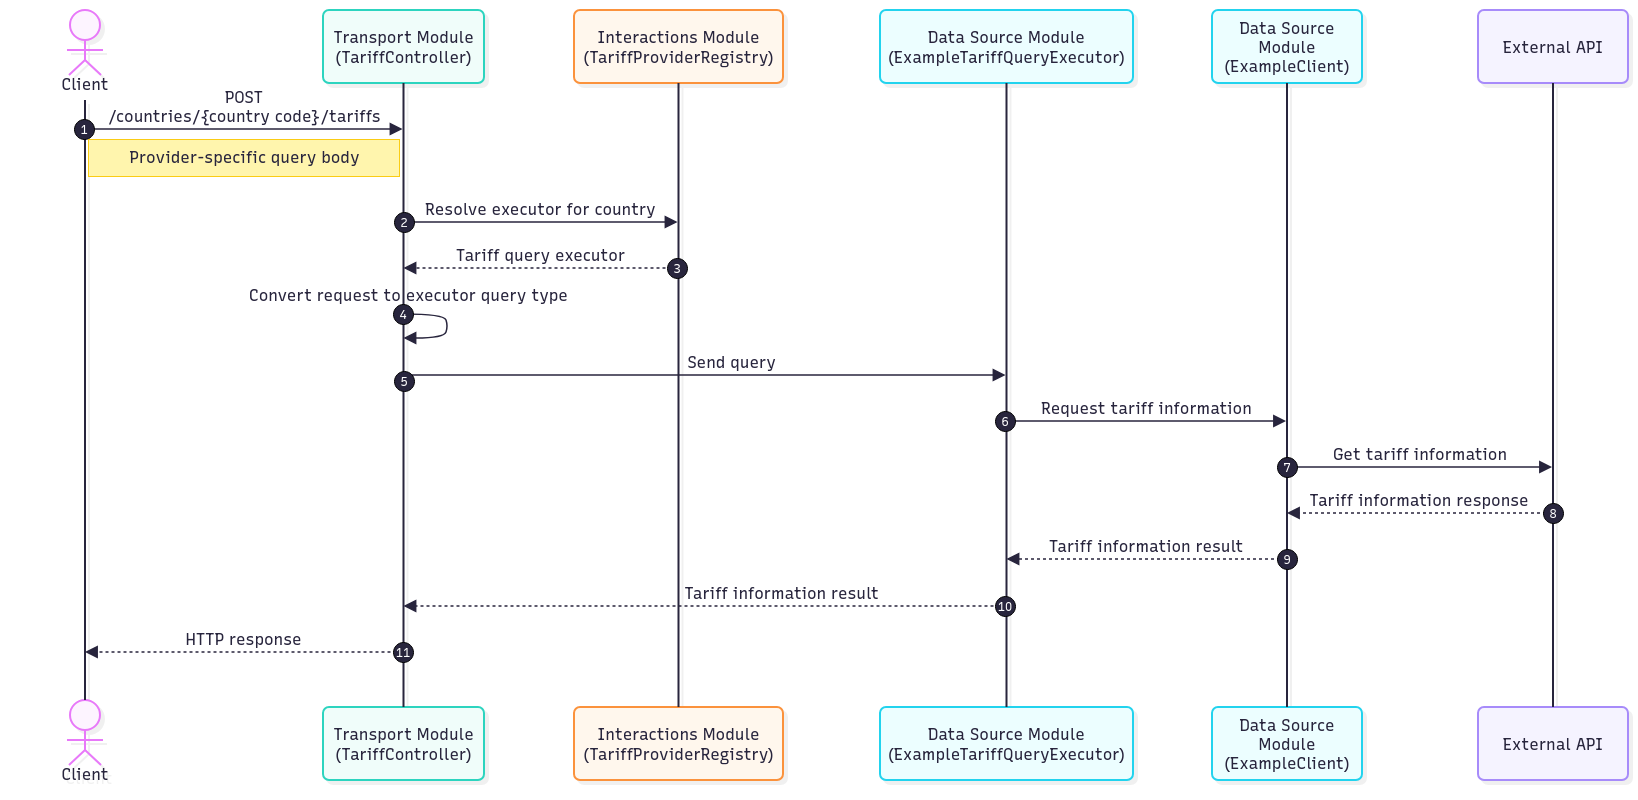
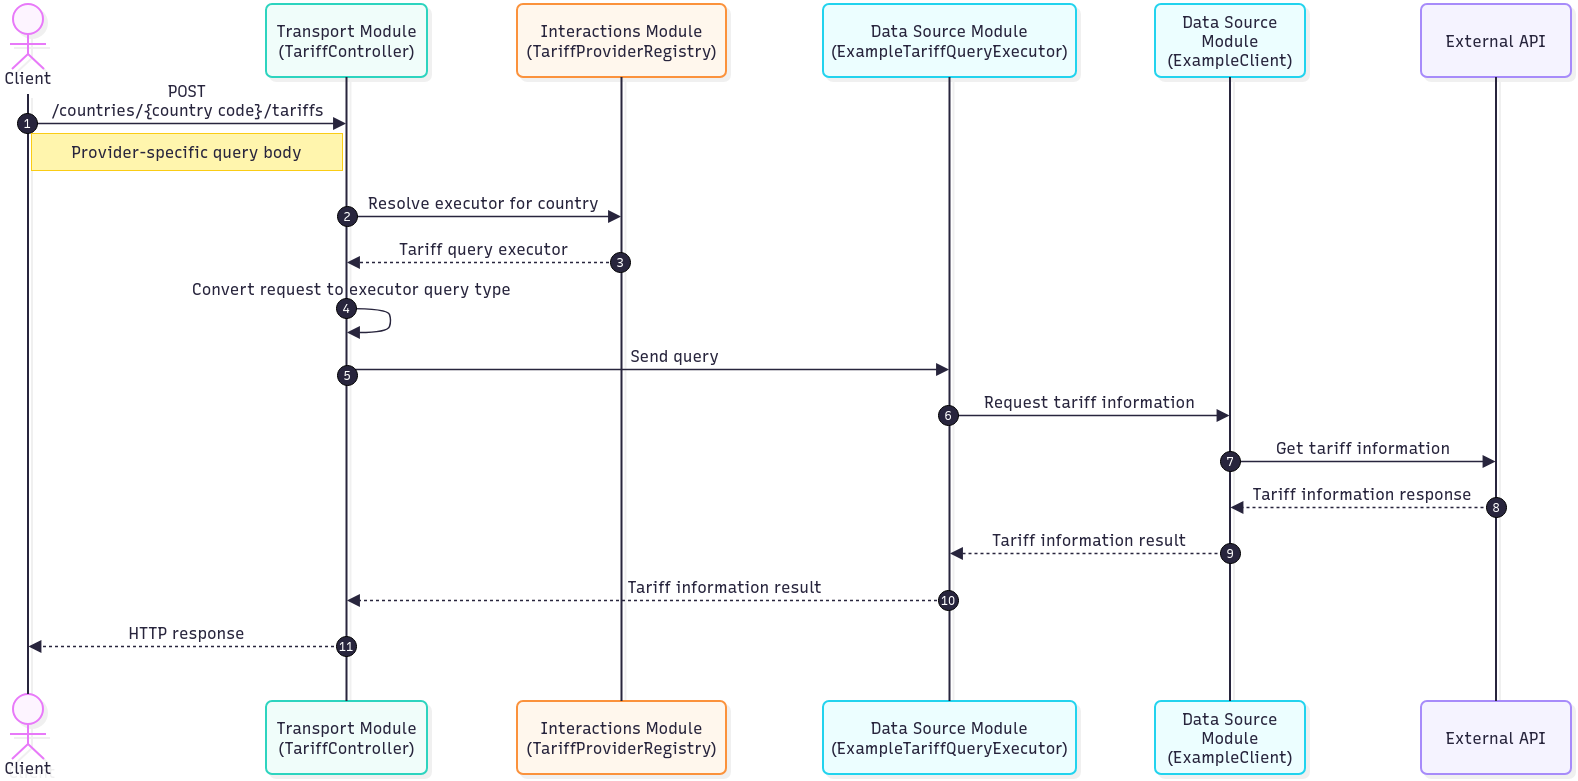
feat(esios-datasource): GH-7 apply review suggestions and update add-datasource.md in docs

diff --git a/data-sources/data-source-es-esios/src/main/java/energy/eddie/implicitflexibility/datasource/es/esios/models/Indicator.java b/data-sources/data-source-es-esios/src/main/java/energy/eddie/implicitflexibility/datasource/es/esios/models/Indicator.java
@@ -5,80 +5,18 @@ import com.fasterxml.jackson.annotation.JsonProperty;
 import java.time.OffsetDateTime;
 import java.util.List;
 
-public class Indicator extends IndicatorItem {
-
-    private final Boolean composited;
-    @JsonProperty("step_type")
-    private final String stepType;
-    private final Boolean disaggregated;
-    private final List<IndicatorBase> geos;
-    private final List<IndicatorBase> magnitud;
-    private final List<IndicatorBase> tiempo;
-    @JsonProperty("values_updated_at")
-    private final OffsetDateTime valuesUpdatedAt;
-    @JsonProperty("values_sum")
-    private final Integer valuesSum;
-    private final List<IndicatorValue> values;
-
-    public Indicator(
-            String name,
-            long id,
-            String shortName,
-            Boolean composited,
-            String stepType,
-            Boolean disaggregated,
-            List<IndicatorBase> geos,
-            List<IndicatorBase> magnitud,
-            List<IndicatorBase> tiempo,
-            OffsetDateTime valuesUpdatedAt,
-            Integer valuesSum,
-            List<IndicatorValue> values
-    ) {
-        super(name, id, shortName);
-        this.composited = composited;
-        this.stepType = stepType;
-        this.disaggregated = disaggregated;
-        this.geos = geos;
-        this.magnitud = magnitud;
-        this.tiempo = tiempo;
-        this.valuesUpdatedAt = valuesUpdatedAt;
-        this.valuesSum = valuesSum;
-        this.values = values;
-    }
-
-    public Boolean getComposited() {
-        return composited;
-    }
-
-    public String getStepType() {
-        return stepType;
-    }
-
-    public Boolean isDisaggregated() {
-        return disaggregated;
-    }
-
-    public List<IndicatorBase> getGeos() {
-        return geos;
-    }
-
-    public List<IndicatorBase> getMagnitud() {
-        return magnitud;
-    }
-
-    public List<IndicatorBase> getTiempo() {
-        return tiempo;
-    }
-
-    public OffsetDateTime getValuesUpdatedAt() {
-        return valuesUpdatedAt;
-    }
-
-    public Integer getValuesSum() {
-        return valuesSum;
-    }
-
-    public List<IndicatorValue> getValues() {
-        return values;
-    }
+public record Indicator(
+        String name,
+        long id,
+        @JsonProperty("short_name") String shortName,
+        Boolean composited,
+        @JsonProperty("step_type") String stepType,
+        Boolean disaggregated,
+        List<IndicatorItem> geos,
+        List<IndicatorItem> magnitud,
+        List<IndicatorItem> tiempo,
+        @JsonProperty("values_updated_at") OffsetDateTime valuesUpdatedAt,
+        Integer valuesSum,
+        List<IndicatorValue> values
+) implements IndicatorBase {
 }

diff --git a/data-sources/data-source-es-esios/src/main/java/energy/eddie/implicitflexibility/datasource/es/esios/models/IndicatorValue.java b/data-sources/data-source-es-esios/src/main/java/energy/eddie/implicitflexibility/datasource/es/esios/models/IndicatorValue.java
@@ -1,50 +1,18 @@
 package energy.eddie.implicitflexibility.datasource.es.esios.models;
 
+import com.fasterxml.jackson.annotation.JsonAlias;
 import com.fasterxml.jackson.annotation.JsonProperty;
 
 import java.math.BigDecimal;
 import java.time.Instant;
 import java.time.OffsetDateTime;
 
-public class IndicatorValue extends IndicatorBase {
-    private final BigDecimal value;
-
-    private final OffsetDateTime datetime;
-
-    @JsonProperty("datetime_utc")
-    private final Instant datetimeUtc;
-
-    @JsonProperty("tz_time")
-    private final Instant tzTime;
-
-    public IndicatorValue(
-            @JsonProperty("geo_name") String name,
-            @JsonProperty("geo_id") long id,
-            BigDecimal value,
-            OffsetDateTime datetime,
-            Instant datetimeUtc,
-            Instant tzTime
-    ) {
-        super(name, id);
-        this.value = value;
-        this.datetime = datetime;
-        this.datetimeUtc = datetimeUtc;
-        this.tzTime = tzTime;
-    }
-
-    public BigDecimal getValue() {
-        return value;
-    }
-
-    public OffsetDateTime getDatetime() {
-        return datetime;
-    }
-
-    public Instant getDatetimeUtc() {
-        return datetimeUtc;
-    }
-
-    public Instant getTzTime() {
-        return tzTime;
-    }
+public record IndicatorValue(
+        @JsonAlias("geo_name") String name,
+        @JsonAlias("geo_id") long id,
+        BigDecimal value,
+        OffsetDateTime datetime,
+        @JsonProperty("datetime_utc") Instant datetimeUtc,
+        @JsonProperty("tz_time") Instant tzTime
+) implements IndicatorBase {
 }

diff --git a/data-sources/data-source-es-esios/src/test/java/energy/eddie/implicitflexibility/datasource/es/esios/EsiosClientTest.java b/data-sources/data-source-es-esios/src/test/java/energy/eddie/implicitflexibility/datasource/es/esios/EsiosClientTest.java
@@ -68,10 +68,10 @@ class EsiosClientTest {
 
         // Then
         assertNotNull(result);
-        assertEquals(600L, result.getId());
-        assertEquals("Precio mercado SPOT Diario", result.getName());
-        assertEquals("Mercado SPOT", result.getShortName());
-        assertEquals(6, result.getGeos().size());
+        assertEquals(600L, result.id());
+        assertEquals("Precio mercado SPOT Diario", result.name());
+        assertEquals("Mercado SPOT", result.shortName());
+        assertEquals(6, result.geos().size());
 
         mockServer.verify();
     }
@@ -94,10 +94,10 @@ class EsiosClientTest {
 
         IndicatorSpecification indicator = result.indicators().getFirst();
 
-        assertEquals(1L, indicator.getId());
-        assertEquals("Generación programada PBF Hidráulica UGH", indicator.getName());
-        assertEquals("Hidráulica UGH", indicator.getShortName());
-        assertNotNull(indicator.getDescription());
+        assertEquals(1L, indicator.id());
+        assertEquals("Generación programada PBF Hidráulica UGH", indicator.name());
+        assertEquals("Hidráulica UGH", indicator.shortName());
+        assertNotNull(indicator.description());
 
         mockServer.verify();
     }

diff --git a/data-sources/data-source-es-esios/src/main/java/energy/eddie/implicitflexibility/datasource/es/esios/models/IndicatorSpecification.java b/data-sources/data-source-es-esios/src/main/java/energy/eddie/implicitflexibility/datasource/es/esios/models/IndicatorSpecification.java
@@ -1,14 +1,11 @@
 package energy.eddie.implicitflexibility.datasource.es.esios.models;
 
-public class IndicatorSpecification extends IndicatorItem {
-    private final String description;
+import com.fasterxml.jackson.annotation.JsonProperty;
 
-    public IndicatorSpecification(String name, long id, String shortName, String description) {
-        super(name, id, shortName);
-        this.description = description;
-    }
-
-    public String getDescription() {
-        return description;
-    }
+public record IndicatorSpecification(
+        String name,
+        long id,
+        @JsonProperty("short_name") String shortName,
+        String description
+) implements IndicatorBase {
 }

diff --git a/data-sources/data-source-es-esios/src/main/java/energy/eddie/implicitflexibility/datasource/es/esios/models/IndicatorItem.java b/data-sources/data-source-es-esios/src/main/java/energy/eddie/implicitflexibility/datasource/es/esios/models/IndicatorItem.java
@@ -1,18 +1,7 @@
 package energy.eddie.implicitflexibility.datasource.es.esios.models;
 
-import com.fasterxml.jackson.annotation.JsonProperty;
+import com.fasterxml.jackson.annotation.JsonAlias;
 
-abstract class IndicatorItem extends IndicatorBase {
-    
-    @JsonProperty("short_name")
-    private final String shortName;
-
-    IndicatorItem(String name, long id, String shortName) {
-        super(name, id);
-        this.shortName = shortName;
-    }
-
-    public String getShortName() {
-        return shortName;
-    }
+public record IndicatorItem(@JsonAlias("geo_name") String name,
+                            @JsonAlias("geo_id") long id) implements IndicatorBase {
 }

diff --git a/data-sources/data-source-es-esios/src/main/java/energy/eddie/implicitflexibility/datasource/es/esios/models/IndicatorBase.java b/data-sources/data-source-es-esios/src/main/java/energy/eddie/implicitflexibility/datasource/es/esios/models/IndicatorBase.java
@@ -1,21 +1,7 @@
 package energy.eddie.implicitflexibility.datasource.es.esios.models;
 
-import com.fasterxml.jackson.annotation.JsonAlias;
+public interface IndicatorBase {
+    String name();
 
-public class IndicatorBase {
-    private final String name;
-    private final long id;
-
-    public IndicatorBase(@JsonAlias("geo_name") String name, @JsonAlias("geo_id") long id) {
-        this.name = name;
-        this.id = id;
-    }
-
-    public String getName() {
-        return name;
-    }
-
-    public long getId() {
-        return id;
-    }
+    long id();
 }

diff --git a/docs/extend/add-datasource.md b/docs/extend/add-datasource.md
@@ -22,14 +22,17 @@ The implementation should provide the required Id and country information as bel
 @ConditionalOnProperty(prefix = "data-source.xx.example-provider", name = "enabled", havingValue = "true")
 public class ExampleDataSource implements DataSource {
 
+    public static final String DATA_SOURCE_ID = "example-provider";
+    public static final String COUNTRY_CODE = "XX";
+
     @Override
     public String getId() {
-        return "example-provider";
+        return DATA_SOURCE_ID;
     }
 
     @Override
     public String getCountry() {
-        return "XX";
+        return COUNTRY_CODE;
     }
 }
 ```
@@ -96,6 +99,7 @@ public class ExampleProviderClient {
     ) {
         this.restClient = builder
                 .baseUrl(properties.baseUrl().toString())
+                .defaultStatusHandler(new DataSourceResponseErrorHandler(ExampleDataSource.DATA_SOURCE_ID))
                 .build();
     }
 }
@@ -142,20 +146,17 @@ For example:
 ```java
 
 @Component
-public class ExampleTariffQueryExecutor
-        implements TariffQueryExecutor {
+public class ExampleTariffQueryExecutor implements TariffQueryExecutor {
 
     private final ExampleProviderClient client;
 
-    public ExampleTariffQueryExecutor(
-            ExampleProviderClient client
-    ) {
+    public ExampleTariffQueryExecutor(ExampleProviderClient client) {
         this.client = client;
     }
 
     @Override
     public String getCountryCode() {
-        return "XX";
+        return ExampleDataSource.COUNTRY_CODE;
     }
 
     @Override
@@ -165,9 +166,7 @@ public class ExampleTariffQueryExecutor
 
     @Override
     public Object execute(Object query) {
-        ExampleTariffQuery tariffQuery =
-                (ExampleTariffQuery) query;
-
+        ExampleTariffQuery tariffQuery = (ExampleTariffQuery) query;
         return client.getTariffInformation(tariffQuery);
     }
 }
